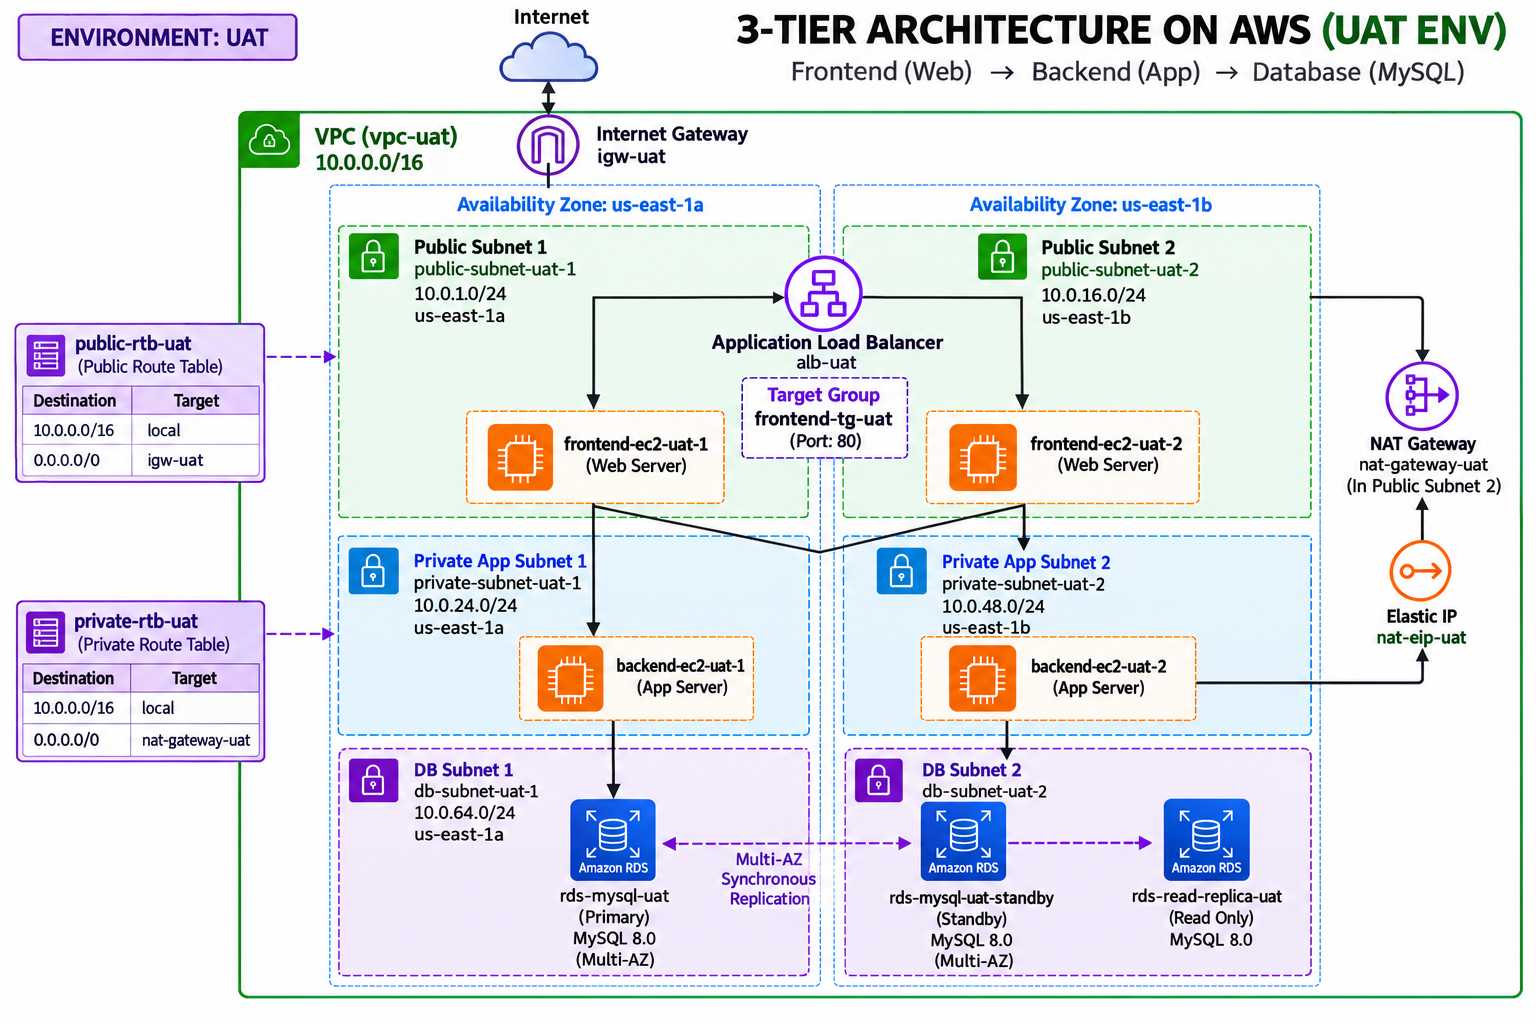
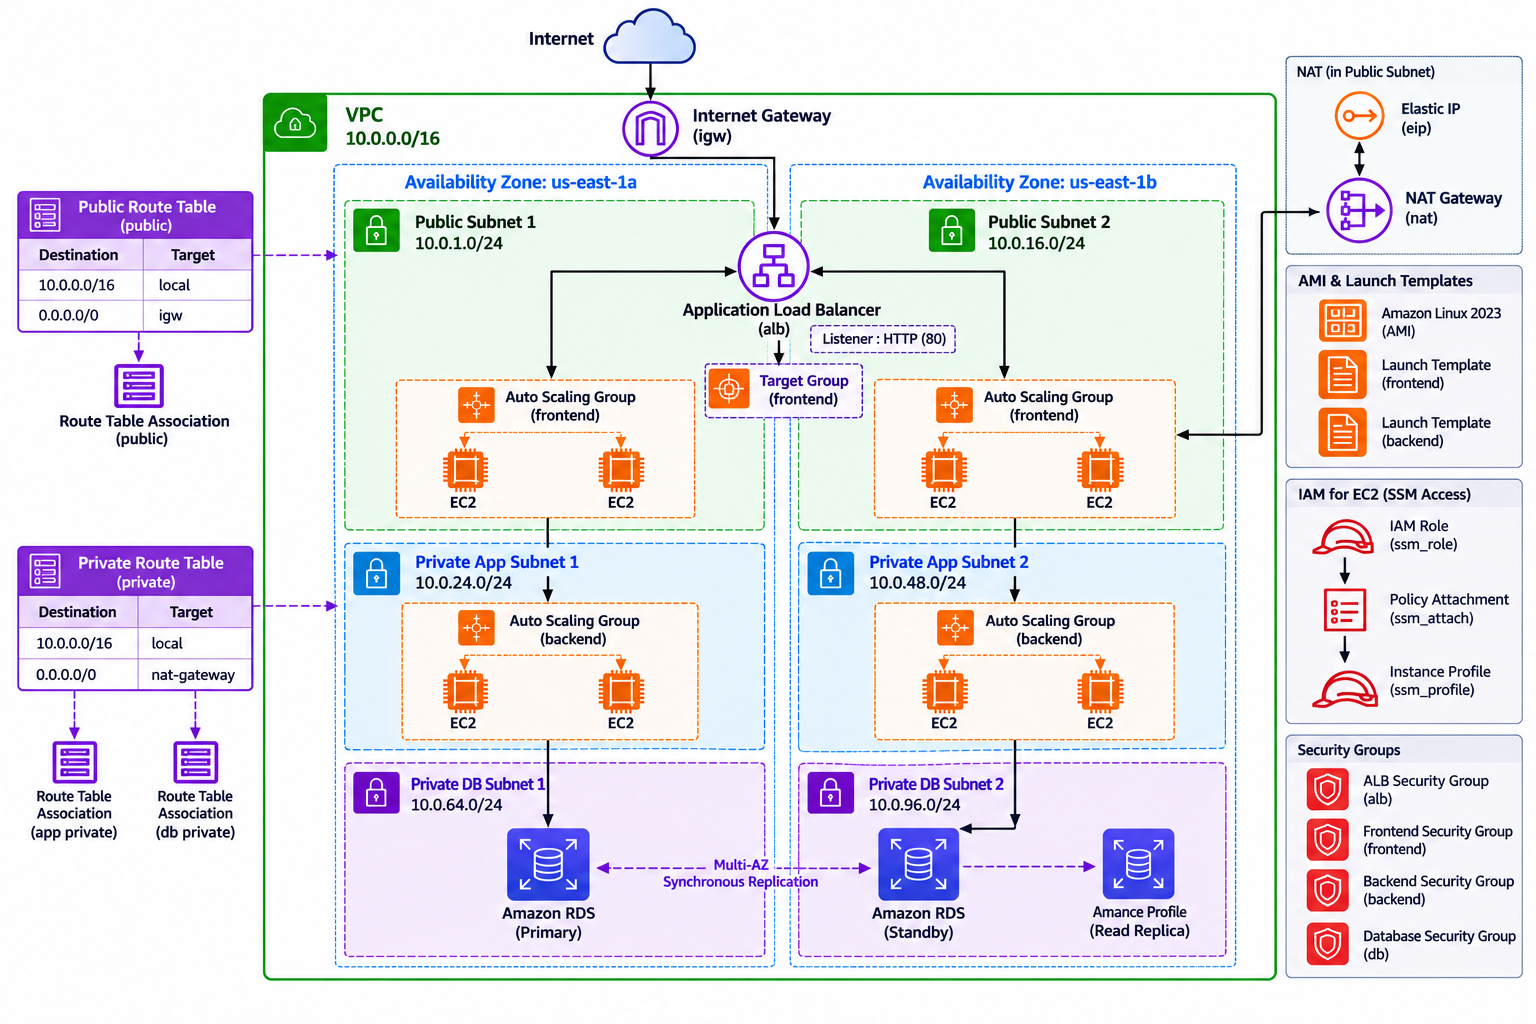
refactor: complete three-tier architecture overhaul with full verification

diff --git a/docs/superpowers/plans/2026-10-21-three-tier-aws-iac-refactor.md b/docs/superpowers/plans/2026-10-21-three-tier-aws-iac-refactor.md
@@ -1,6 +1,6 @@
 # Three-Tier AWS Infrastructure as Code with Terraform Implementation Plan
 
-> **For agentic workers:** REQUIRED SUB-SKILL: Use superpowers:subagent-driven-development (recommended) or superpowers:executing-plans to implement this plan task-by-task. Steps use checkbox (`- [ ]`) syntax for tracking.
+> **For agentic workers:** REQUIRED SUB-SKILL: Use superpowers:subagent-driven-development (recommended) or superpowers:executing-plans to implement this plan task-by-task. Steps use checkbox (`- [x]`) syntax for tracking.
 
 **Goal:** Overhaul the project into an enterprise-ready, production-grade 3-tier AWS architecture with directory-per-environment isolation, S3+DynamoDB remote state locking, true dual-tier Auto Scaling Groups (Frontend Web ASG + Backend App ASG), PostgreSQL 15.7 RDS with configurable Multi-AZ, zero-trust SSM Session Manager administration, and complete repository hygiene.
 
@@ -38,14 +38,14 @@
 - Consumes: AWS Provider ~> 5.0
 - Produces: S3 bucket `three-tier-tf-state-backend-*` (versioned, encrypted) and DynamoDB table `three-tier-tf-locks`
 
-- [ ] **Step 1: Create `.gitignore` to prevent secret leaks and state tracking**
+- [x] **Step 1: Create `.gitignore` to prevent secret leaks and state tracking**
   - Ignore `.terraform/`, `*.tfstate`, `*.tfstate.*`, `*.tfvars`, except `*.tfvars.example`.
-- [ ] **Step 2: Create `.tflint.hcl` for AWS rule linting**
+- [x] **Step 2: Create `.tflint.hcl` for AWS rule linting**
   - Enable AWS ruleset for provider ~> 5.0.
-- [ ] **Step 3: Implement `global/s3_backend` for remote state storage & DynamoDB locking**
+- [x] **Step 3: Implement `global/s3_backend` for remote state storage & DynamoDB locking**
   - Configure `aws_s3_bucket`, `aws_s3_bucket_versioning`, `aws_s3_bucket_server_side_encryption_configuration`, `aws_s3_bucket_public_access_block`, and `aws_dynamodb_table` (`LockID`).
-- [ ] **Step 4: Verify syntax and formatting with `terraform fmt` and `terraform validate`**
-- [ ] **Step 5: Commit Task 1 deliverables**
+- [x] **Step 4: Verify syntax and formatting with `terraform fmt` and `terraform validate`**
+- [x] **Step 5: Commit Task 1 deliverables**
 
 ---
 
@@ -60,24 +60,24 @@
 - Consumes: `vpc_cidr`, `availability_zones`, `public_subnet_cidrs`, `app_private_subnet_cidrs`, `db_private_subnet_cidrs`, `environment`
 - Produces: `vpc_id`, `public_subnet_ids`, `app_private_subnet_ids`, `db_private_subnet_ids`, `nat_gateway_id`
 
-- [ ] **Step 1: Write `modules/network/variables.tf`**
+- [x] **Step 1: Write `modules/network/variables.tf`**
   - Define variables with defaults matching the visual diagram:
     - VPC CIDR: `10.0.0.0/16`
     - Availability Zones: `["us-east-1a", "us-east-1b"]`
     - Public Subnets: `["10.0.1.0/24", "10.0.16.0/24"]`
     - App Private Subnets: `["10.0.24.0/24", "10.0.48.0/24"]`
     - DB Private Subnets: `["10.0.64.0/24", "10.0.96.0/24"]`
-- [ ] **Step 2: Write `modules/network/main.tf`**
+- [x] **Step 2: Write `modules/network/main.tf`**
   - Implement VPC with DNS support & hostnames.
   - Implement 2 Public Subnets, 2 App Private Subnets, 2 DB Private Subnets.
   - Implement Internet Gateway and attach to VPC.
   - Implement Elastic IP and NAT Gateway placed in Public Subnet 2 (`10.0.16.0/24`, matching the diagram).
   - Implement Public Route Table (route `0.0.0.0/0` -> IGW) and associations.
   - Implement Private Route Table (route `0.0.0.0/0` -> NAT GW) and associate with App & DB private subnets.
-- [ ] **Step 3: Write `modules/network/outputs.tf`**
+- [x] **Step 3: Write `modules/network/outputs.tf`**
   - Export VPC ID, Subnet IDs (public, app private, db private).
-- [ ] **Step 4: Validate `modules/network` syntax with `terraform validate`**
-- [ ] **Step 5: Commit Task 2 deliverables**
+- [x] **Step 4: Validate `modules/network` syntax with `terraform validate`**
+- [x] **Step 5: Commit Task 2 deliverables**
 
 ---
 
@@ -92,32 +92,32 @@
 - Consumes: `vpc_id`, `public_subnet_ids`, `app_private_subnet_ids`, `instance_type`, `environment`, ASG sizing parameters
 - Produces: `alb_dns_name`, `alb_security_group_id`, `frontend_security_group_id`, `backend_security_group_id`
 
-- [ ] **Step 1: Write `modules/compute/variables.tf`**
+- [x] **Step 1: Write `modules/compute/variables.tf`**
   - Define variables for VPC ID, subnet IDs, instance types, ports (frontend 80, backend 8080), ASG capacities.
-- [ ] **Step 2: Implement IAM Role & Instance Profile for AWS Systems Manager (SSM)**
+- [x] **Step 2: Implement IAM Role & Instance Profile for AWS Systems Manager (SSM)**
   - Create IAM Role `aws_iam_role.ssm_role` with trust policy for `ec2.amazonaws.com`.
   - Attach `arn:aws:iam::aws:policy/AmazonSSMManagedInstanceCore`.
   - Create `aws_iam_instance_profile.ssm_profile`.
-- [ ] **Step 3: Implement Security Groups**
+- [x] **Step 3: Implement Security Groups**
   - `alb-sg`: Inbound HTTP 80 / HTTPS 443 from `0.0.0.0/0`.
   - `frontend-sg`: Inbound HTTP 80 from `alb-sg`. Egress to backend on 8080 and to internet for updates. NO port 22 open.
   - `backend-sg`: Inbound Port 8080 from `frontend-sg`. Egress to DB on 5432 and to internet (NAT) for updates. NO port 22 open.
-- [ ] **Step 4: Implement Application Load Balancer & Target Group**
+- [x] **Step 4: Implement Application Load Balancer & Target Group**
   - Public ALB spanning public subnets.
   - Target Group for frontend (port 80, HTTP, `/` health check).
   - HTTP Listener on port 80 forwarding to frontend target group.
-- [ ] **Step 5: Implement Dynamic AMI Lookup & Launch Templates**
+- [x] **Step 5: Implement Dynamic AMI Lookup & Launch Templates**
   - Dynamic AMI lookup: `data "aws_ami" "amazon_linux_2023"`.
   - Frontend Launch Template: Enforces IMDSv2, attaches SSM profile, configures web server user data, attaches to `frontend-sg`.
   - Backend Launch Template: Enforces IMDSv2, attaches SSM profile, configures backend service user data (port 8080), attaches to `backend-sg`.
-- [ ] **Step 6: Implement Auto Scaling Groups**
+- [x] **Step 6: Implement Auto Scaling Groups**
   - Frontend ASG: Spans public subnets, attached to ALB target group, ELB health checks.
   - Backend ASG: Spans private app subnets, EC2 health checks.
   - Lifecycle: `create_before_destroy = true`.
-- [ ] **Step 7: Write `modules/compute/outputs.tf`**
+- [x] **Step 7: Write `modules/compute/outputs.tf`**
   - Export ALB DNS name, ALB SG ID, Frontend SG ID, Backend SG ID.
-- [ ] **Step 8: Validate `modules/compute` syntax**
-- [ ] **Step 9: Commit Task 3 deliverables**
+- [x] **Step 8: Validate `modules/compute` syntax**
+- [x] **Step 9: Commit Task 3 deliverables**
 
 ---
 
@@ -132,19 +132,19 @@
 - Consumes: `vpc_id`, `db_private_subnet_ids`, `backend_security_group_id`, credentials, `multi_az`, `environment`
 - Produces: `db_instance_endpoint`, `db_instance_id`
 
-- [ ] **Step 1: Write `modules/database/variables.tf`**
+- [x] **Step 1: Write `modules/database/variables.tf`**
   - Parameters for engine (default `postgres`), version (`15.7`), instance class (`db.t3.micro`), storage (`20`), DB name, username, password (sensitive), `multi_az` (bool).
-- [ ] **Step 2: Implement DB Subnet Group and Database Security Group**
+- [x] **Step 2: Implement DB Subnet Group and Database Security Group**
   - DB Subnet Group spanning the 2 DB private subnets.
   - Security Group: Inbound port 5432 **strictly** from `var.backend_security_group_id`.
-- [ ] **Step 3: Implement `aws_db_instance`**
+- [x] **Step 3: Implement `aws_db_instance`**
   - Engine `postgres`, version `15.7`, `publicly_accessible = false`, `multi_az = var.multi_az`.
   - Storage autoscaling enabled (max 100 GB).
   - `skip_final_snapshot = true` for easy lab destruction.
-- [ ] **Step 4: Write `modules/database/outputs.tf`**
+- [x] **Step 4: Write `modules/database/outputs.tf`**
   - Export endpoint, port, instance ID.
-- [ ] **Step 5: Validate `modules/database` syntax**
-- [ ] **Step 6: Commit Task 4 deliverables**
+- [x] **Step 5: Validate `modules/database` syntax**
+- [x] **Step 6: Commit Task 4 deliverables**
 
 ---
 
@@ -162,21 +162,21 @@
   - `uat/terraform.tfstate` (Single-AZ DB, 1-3 ASG)
   - `prod/terraform.tfstate` (Multi-AZ DB, 2-6 ASG)
 
-- [ ] **Step 1: Implement `envs/dev`**
+- [x] **Step 1: Implement `envs/dev`**
   - S3 backend targeting `dev/terraform.tfstate`.
   - Module wiring for network, compute, database.
   - Values: `multi_az = false`, instance class `db.t3.micro`, app instance `t3.micro`.
   - Create `terraform.tfvars.example`.
-- [ ] **Step 2: Implement `envs/uat`**
+- [x] **Step 2: Implement `envs/uat`**
   - S3 backend targeting `uat/terraform.tfstate`.
   - Matching UAT environment naming and configuration.
   - Create `terraform.tfvars.example`.
-- [ ] **Step 3: Implement `envs/prod`**
+- [x] **Step 3: Implement `envs/prod`**
   - S3 backend targeting `prod/terraform.tfstate`.
   - Values: `multi_az = true`, instance class `db.t3.small`, app instance `t3.small`, ASG 2-6.
   - Create `terraform.tfvars.example`.
-- [ ] **Step 4: Validate all environment modules**
-- [ ] **Step 5: Commit Task 5 deliverables**
+- [x] **Step 4: Validate all environment modules**
+- [x] **Step 5: Commit Task 5 deliverables**
 
 ---
 
@@ -188,10 +188,10 @@
 - Delete: Obsolete plaintext `.tfvars` in root `envs/`
 - Create: `README.md` (Architecture diagram, component breakdown, cost guide, deployment & teardown runbook)
 
-- [ ] **Step 1: Safely remove obsolete legacy files**
-- [ ] **Step 2: Write production-grade `README.md`**
+- [x] **Step 1: Safely remove obsolete legacy files**
+- [x] **Step 2: Write production-grade `README.md`**
   - Document architecture, security model (SSM, IMDSv2, SG chaining), cost breakdown, step-by-step deploy & destroy commands.
-- [ ] **Step 3: Commit Task 6 deliverables**
+- [x] **Step 3: Commit Task 6 deliverables**
 
 ---
 
@@ -200,7 +200,8 @@
 **Files:**
 - Verify: All files across repository
 
-- [ ] **Step 1: Run `terraform fmt -check -recursive` across repository**
-- [ ] **Step 2: Run `terraform init -backend=false` and `terraform validate` on each environment**
-- [ ] **Step 3: Verify git status is clean and secrets are not tracked**
-- [ ] **Step 4: Final verification commit**
+- [x] **Step 1: Run `terraform fmt -check -recursive` across repository**
+- [x] **Step 2: Run `terraform init -backend=false` and `terraform validate` on each environment**
+- [x] **Step 3: Verify git status is clean and secrets are not tracked**
+- [x] **Step 4: Final verification commit**
+

diff --git a/README.md b/README.md
@@ -8,46 +8,6 @@ A production-ready, highly available, and secure three-tier cloud architecture p
 
 ![3-Tier Architecture Diagram](docs/images/image.png)
 
-```text
-========================================================================================================
-                                     AWS REGION (e.g., us-east-1)
-========================================================================================================
-                                                  |
-                                       [ Internet Gateway (IGW) ]
-                                                  |
-  +-----------------------------------------------+-----------------------------------------------+
-  |                                     VPC (10.0.0.0/16)                                         |
-  |                                                                                               |
-  |   +-----------------------------------------------+   +-----------------------------------+   |
-  |   |              AVAILABILITY ZONE A              |   |        AVAILABILITY ZONE B        |   |
-  |   |                                               |   |                                   |   |
-  |   |  +-----------------------------------------+  |   |  +-----------------------------+  |   |
-  |   |  | Public Subnet 1 (10.0.1.0/24)           |  |   |  | Public Subnet 2 (10.0.16.0/24|  |   |
-  |   |  | - Internet-facing ALB (Node A)          |  |   |  | - Internet-facing ALB (Node B)| |  |
-  |   |  | - Frontend ASG Web Server (Port 80)     |  |   |  | - Frontend ASG Web Server   |  |   |
-  |   |  |                                         |  |   |  | - NAT Gateway & Elastic IP  |  |   |
-  |   |  +-----------------------------------------+  |   |  +-----------------------------+  |   |
-  |   |                      |                        |   |                |                  |   |
-  |   |                      | (HTTP 8080)            |   | (HTTP 8080)    |                  |   |
-  |   |                      v                        |   |                v                  |   |
-  |   |  +-----------------------------------------+  |   |  +-----------------------------+  |   |
-  |   |  | Private App Subnet 1 (10.0.24.0/24)     |  |   |  | Private App Subnet 2 (48/24)|  |   |
-  |   |  | - Backend ASG App Server (Port 8080)    |  |   |  | - Backend ASG App Server    |  |   |
-  |   |  | - SSM Managed (Zero Open SSH)           |  |   |  | - SSM Managed (Zero Open SSH)| | |
-  |   |  | - Outbound Updates via NAT Gateway      |  |   |  | - Outbound via NAT Gateway  |  |   |
-  |   |  +-----------------------------------------+  |   |  +-----------------------------+  |   |
-  |   |                      |                        |   |                |                  |   |
-  |   |                      | (PostgreSQL 5432)      |   | (PostgreSQL)   |                  |   |
-  |   |                      v                        |   |                v                  |   |
-  |   |  +-----------------------------------------+  |   |  +-----------------------------+  |   |
-  |   |  | DB Subnet 1 (10.0.64.0/24)              |  |   |  | DB Subnet 2 (10.0.96.0/24)  |  |   |
-  |   |  | - Primary RDS PostgreSQL 15.7           |  |   |  | - Standby RDS PostgreSQL    |  |   |
-  |   |  |                                         |==|==>|   (Multi-AZ Synchronous in Prod) |
-  |   |  +-----------------------------------------+  |   |  +-----------------------------+  |   |
-  |   +-----------------------------------------------+   +-----------------------------------+   |
-  |                                                                                               |
-  +-----------------------------------------------------------------------------------------------+
-```
 
 ---
 
